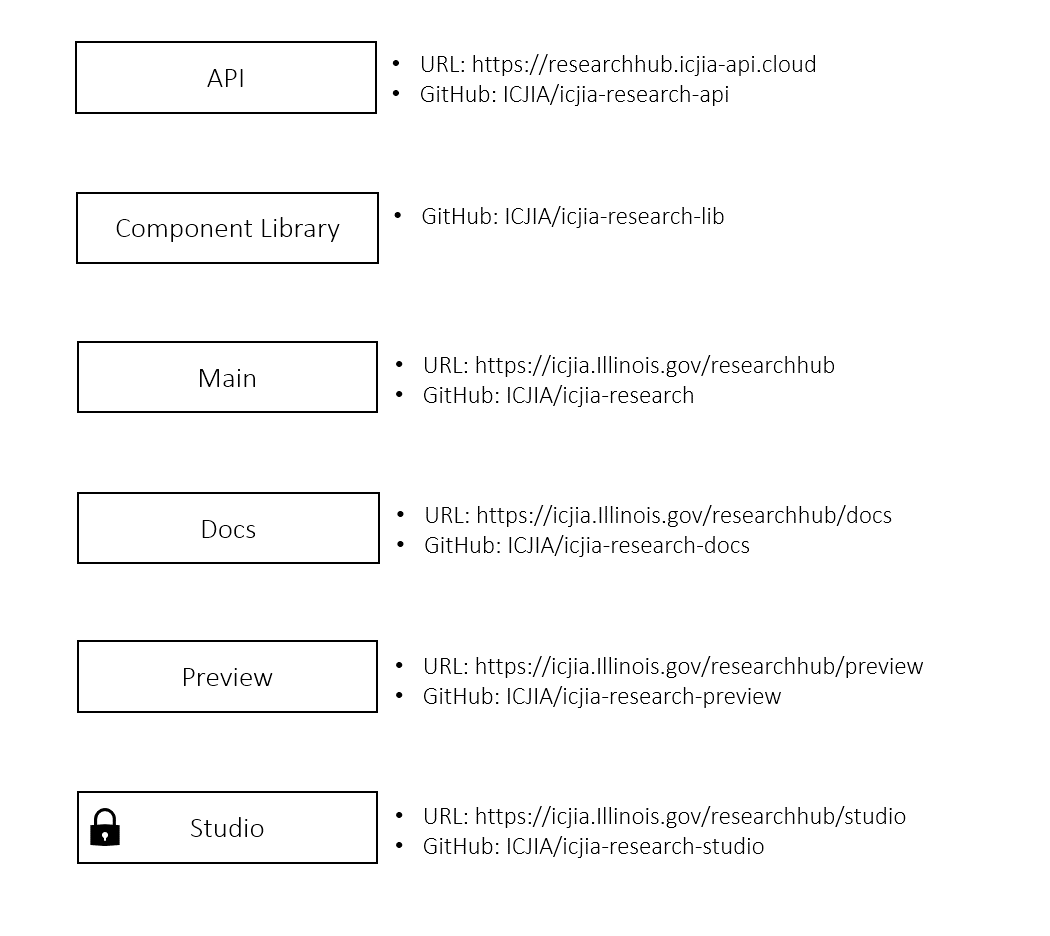
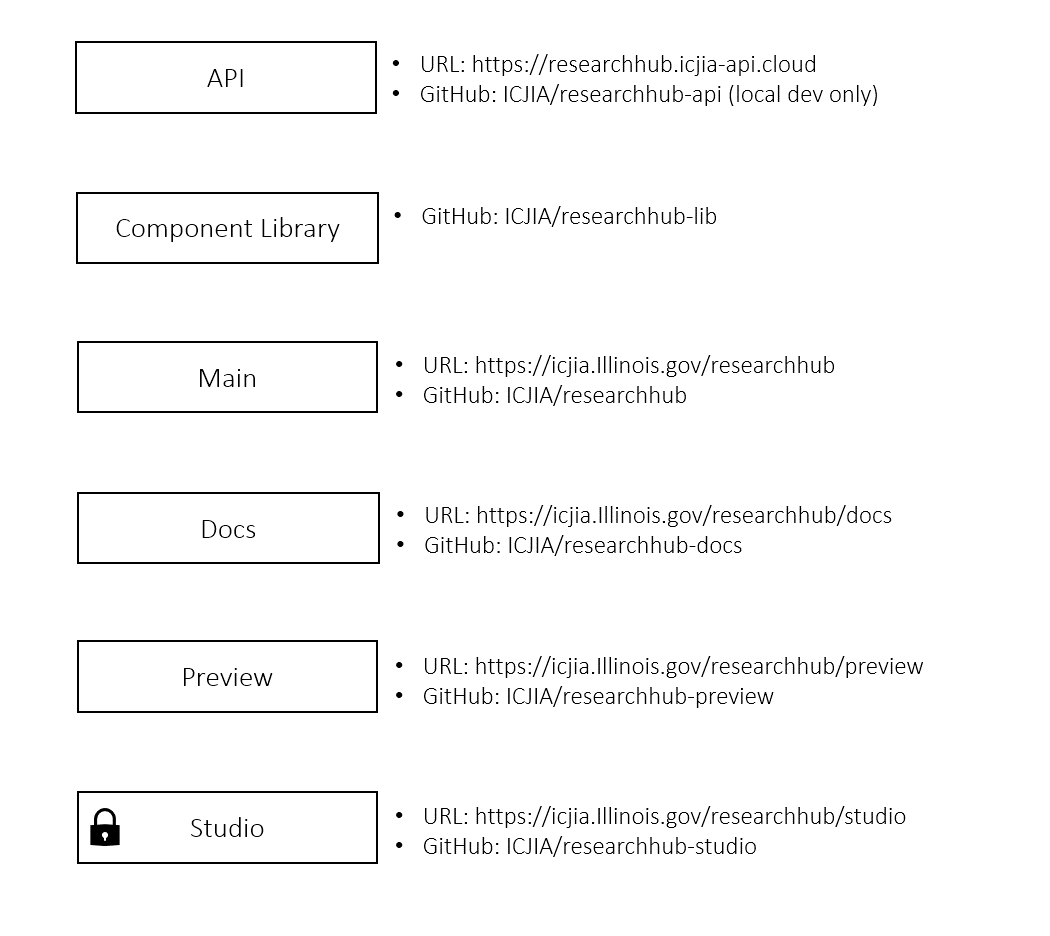
fix: update researchhub repo urls

diff --git a/docs/dev-guide/architecture.md b/docs/dev-guide/architecture.md
@@ -12,12 +12,12 @@ _ICJIA Research Hub_ consists of multiple parts, or components, each built on ma
 
 There are six main components of the _ICJIA Research Hub_ project:
 
-- API server ([GitHub](https://github.com/ICJIA/icjia-research-api))
-- Component library ([GitHub](https://github.com/ICJIA/icjia-research-lib))
-- Documentation ([GitHub](https://github.com/ICJIA/icjia-research-docs))
-- _Research Hub_ ([GitHub](https://github.com/ICJIA/icjia-research))
-- _Research Hub Preview_ ([GitHub](https://github.com/ICJIA/icjia-research-preview))
-- _Research Hub Studio_ ([GitHub](https://github.com/ICJIA/icjia-research-studio))
+- API server ([GitHub](https://github.com/ICJIA/researchhub-api))
+- Component library ([GitHub](https://github.com/ICJIA/researchhub-lib))
+- Documentation ([GitHub](https://github.com/ICJIA/researchhub-docs))
+- _Research Hub_ ([GitHub](https://github.com/ICJIA/researchhub))
+- _Research Hub Preview_ ([GitHub](https://github.com/ICJIA/researchhub-preview))
+- _Research Hub Studio_ ([GitHub](https://github.com/ICJIA/researchhub-studio))
 
 _Figure 1_ below provides a graphical summary of how these components relate to one another.
 
@@ -52,7 +52,7 @@ The API server is powered by:
 
 ### Component library
 
-The main purpose of the custom component library ([GitHub](https://github.com/ICJIA/icjia-research-lib)) is to improve the maintainability of Vue components and a CSS stylesheet shared by three frontend apps. The shared Vue components currently include the menu toolbar, footer and content-specific components (i.e. "cards" and "views" for Apps, Articles and Datasets).
+The main purpose of the custom component library ([GitHub](https://github.com/ICJIA/researchhub-lib)) is to improve the maintainability of Vue components and a CSS stylesheet shared by three frontend apps. The shared Vue components currently include the menu toolbar, footer and content-specific components (i.e. "cards" and "views" for Apps, Articles and Datasets).
 
 The component library is powered by the following key technologies:
 
@@ -61,7 +61,7 @@ The component library is powered by the following key technologies:
 
 ### Documentation
 
-The current site ([GitHub](https://github.com/ICJIA/icjia-research-docs)) serves as the documentation for the _ICJIA Research Hub_ project, consisting of three "Guides" intended for users, developers and content authors (ICJIA staff).
+The current site ([GitHub](https://github.com/ICJIA/researchhub-docs)) serves as the documentation for the _ICJIA Research Hub_ project, consisting of three "Guides" intended for users, developers and content authors (ICJIA staff).
 
 The documentation site is powered by [VuePress](https://vuepress.vuejs.org/).
 
@@ -76,11 +76,11 @@ All three frontend apps are powered by the following key technologies:
 
 #### _Research Hub_
 
-_Research Hub_ ([GitHub](https://github.com/ICJIA/icjia-research)) serves as the main graphical user interface (GUI) to public contents.
+_Research Hub_ ([GitHub](https://github.com/ICJIA/researchhub)) serves as the main graphical user interface (GUI) to public contents.
 
 #### _Research Preview_ and _Research Studio_
 
-Research Hub Preview ([GitHub](https://github.com/ICJIA/icjia-research-studio)) and Research Hub Studio ([GitHub](https://github.com/ICJIA/icjia-research-studio)) together model and streamline ICJIA's internal content publication process.
+Research Hub Preview ([GitHub](https://github.com/ICJIA/researchhub-studio)) and Research Hub Studio ([GitHub](https://github.com/ICJIA/researchhub-studio)) together model and streamline ICJIA's internal content publication process.
 
 ## Deployment strategy
 

diff --git a/docs/guide/faq.md b/docs/guide/faq.md
@@ -22,7 +22,7 @@ In short, a software product is open-source if its source code is released under
 
 ## I am experiencing a technical issue in _ICJIA Research Hub_. How can I report it?
 
-If you find a technical issue in _ICJIA Research Hub_ (e.g. "this hyperlink to an external page is broken" or "numbers in that Dataset file seem incorrect"), you can report it to [CJA.ResearchHub@illinois.gov](mailto:CJA.ResearchHub@illinois.gov). Also, contact us via email if you'd like to share specific suggestions to improve _ICJIA Research Hub_. If you are technically inclined, consider opening a GitHub issue [here](https://github.com/icjia/icjia-research/issues), instead.
+If you find a technical issue in _ICJIA Research Hub_ (e.g. "this hyperlink to an external page is broken" or "numbers in that Dataset file seem incorrect"), you can report it to [CJA.ResearchHub@illinois.gov](mailto:CJA.ResearchHub@illinois.gov). Also, contact us via email if you'd like to share specific suggestions to improve _ICJIA Research Hub_. If you are technically inclined, consider opening a GitHub issue [here](https://github.com/icjia/researchhub/issues), instead.
 
 If you want general information on ICJIA or the R&A Unit, please refer to [the official website](http://icjia.state.il.us).
 

diff --git a/docs/dev-guide/contributing/codebase.md b/docs/dev-guide/contributing/codebase.md
@@ -14,12 +14,12 @@ meta:
 
 Each GitHub repository for an individual component of the _ICJIA Research Hub_ project contains a CONTRIBUTING.md file. Please find each CONTRIBUTING.md file by clicking the following:
 
-- [Research Hub](https://github.com/ICJIA/icjia-research)
-- [Research Hub API](https://github.com/ICJIA/icjia-research-api)
-- [Research Hub component library](https://github.com/ICJIA/icjia-research-lib)
-- [Research Hub Documentation](https://github.com/ICJIA/icjia-research-docs)
-- [Research Hub Preview](https://github.com/ICJIA/icjia-research-preview)
-- [Research Hub Studio](https://github.com/ICJIA/icjia-research-studio)
+- [Research Hub](https://github.com/ICJIA/researchhub)
+- [Research Hub API](https://github.com/ICJIA/researchhub-api)
+- [Research Hub component library](https://github.com/ICJIA/researchhub-lib)
+- [Research Hub Documentation](https://github.com/ICJIA/researchhub-docs)
+- [Research Hub Preview](https://github.com/ICJIA/researchhub-preview)
+- [Research Hub Studio](https://github.com/ICJIA/researchhub-studio)
 
 ::: tip TIP
 See [the Project Architecture page](/dev-guide/architecture.md) of this document for more on each components.

diff --git a/docs/dev-guide/README.md b/docs/dev-guide/README.md
@@ -47,10 +47,10 @@ All three apps expects the API server to be running to access content data and u
 
 ```sh
 # clone source repo
-git clone https://github.com/ICJIA/icjia-research.git
+git clone https://github.com/ICJIA/researchhub.git
 
 # change directory
-cd icjia-research
+cd researchhub
 
 # install node modules
 npm install
@@ -74,10 +74,10 @@ Refer to [the Docker Compose documentation](https://docs.docker.com/compose/) fo
 
 ```sh
 # clone source repo
-git clone https://github.com/ICJIA/icjia-research-api.git
+git clone https://github.com/ICJIA/researchhub-api.git
 
 # change directory
-cd icjia-research-api
+cd researchhub-api
 
 # bring up compose
 docker-compose up
@@ -87,10 +87,10 @@ docker-compose up
 
 ```sh
 # clone source repo
-git clone https://github.com/ICJIA/icjia-research-docs.git
+git clone https://github.com/ICJIA/researchhub-docs.git
 
 # change directory
-cd icjia-research-docs
+cd researchhub-docs
 
 # install node modules
 npm install
